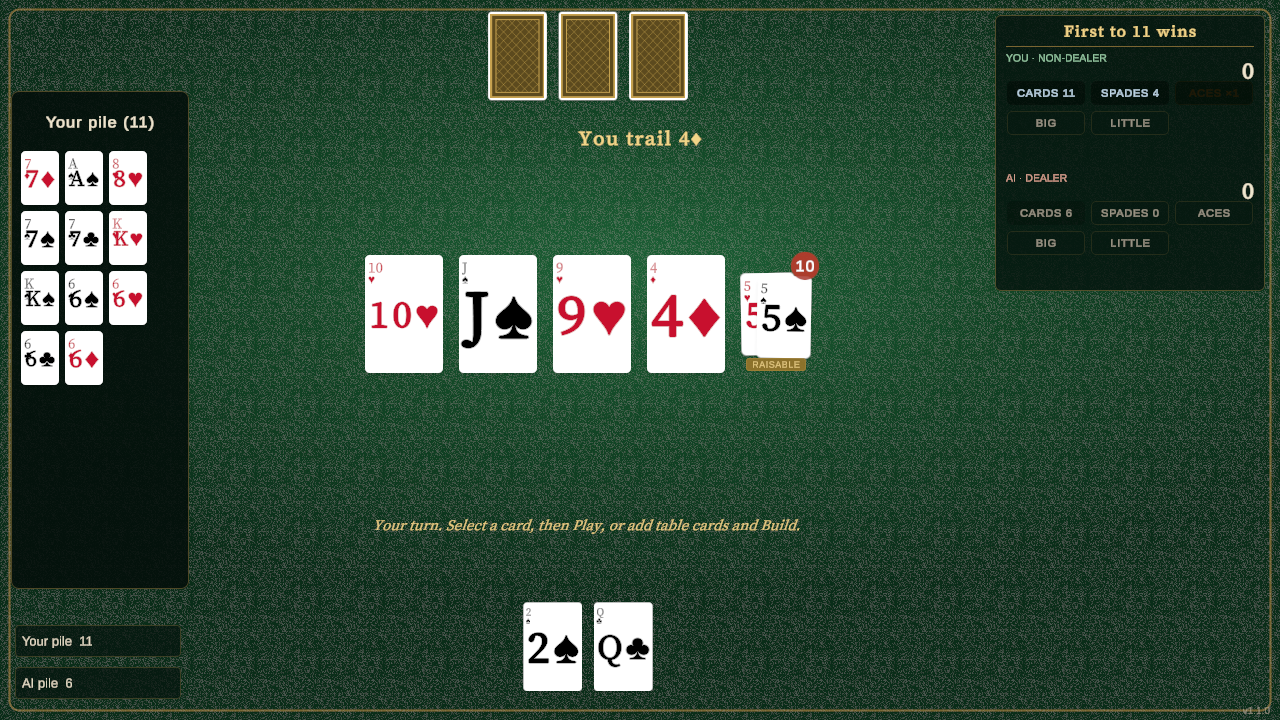
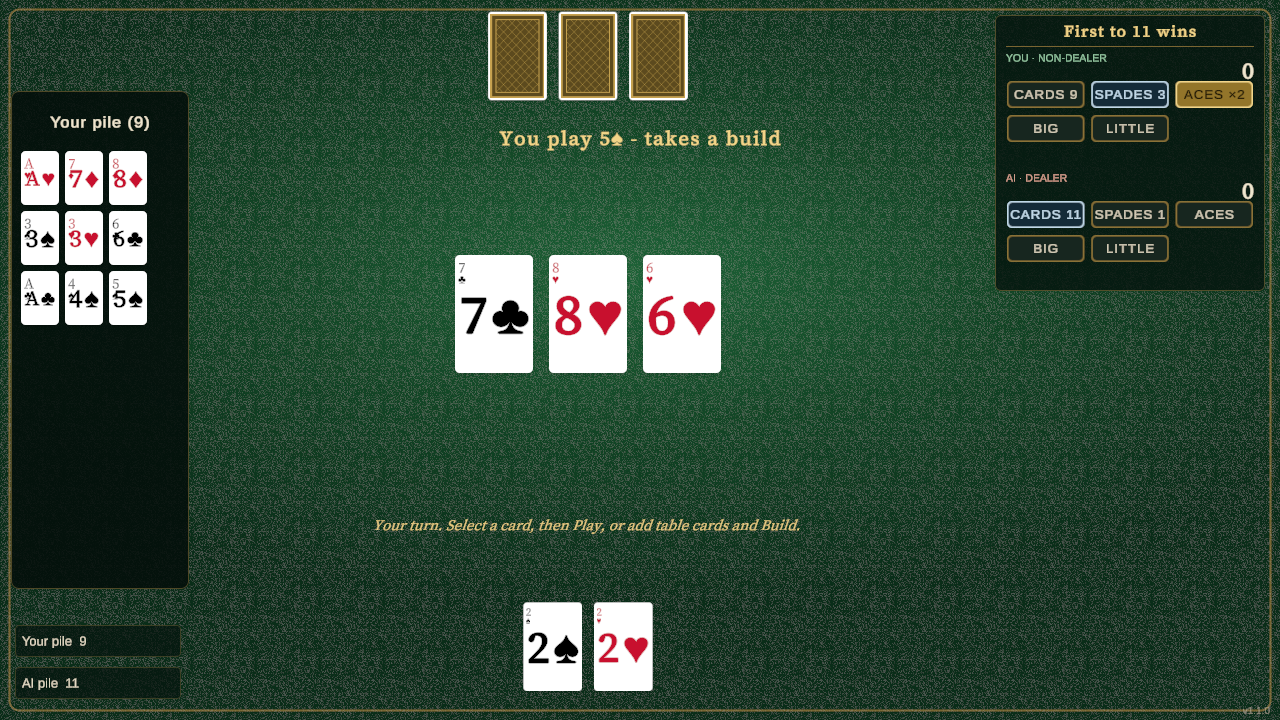
Make the badges actually visible, and actually different from each other
Rick could not see them, and he was right twice over.

Idle was a ghost, not a slot. Fill at 0.55 alpha and a label at 0.38 on a panel
that is already near-black meant an unwon badge was invisible rather than merely
quiet. That matters most at deck end, when every badge resets to idle and the
whole panel therefore looked empty at exactly the moment someone wants to read
it. An unwon prize still has to read as a prize on offer.

Worse, the three states were not distinguishable at all, and the cause was a
real bug. Surface() bakes fill and stroke into the sprite texture, so re-tinting
that sprite per state multiplies against the baked fill: won came out dark brown
with an unreadable label, and leading was indistinguishable from idle. Every
state collapsed toward black. CardUI already had this right, using a white
sprite so Image.color carries the state; the badge did not. It now uses two
white sprites, a border and an inset fill, both tinted per state.

The result reads correctly at a glance: with 11 cards against 9 the AI's CARDS
badge goes blue, with 3 spades against 1 yours does, and two aces strikes yours
in brass while the AI's stays idle.

diff --git a/Assets/Scripts/UIManager.cs b/Assets/Scripts/UIManager.cs
@@ -1442,7 +1442,7 @@ public class UIManager : MonoBehaviour
     {
         public enum State { Idle, Leading, Won }
 
-        private readonly Image surface;
+        private readonly Image surface, border;
         private readonly TextMeshProUGUI label;
         private readonly RectTransform rect;
         private State state = State.Idle;
@@ -1462,8 +1462,29 @@ public class UIManager : MonoBehaviour
             rect.anchoredPosition = pos;
             rect.sizeDelta = size;
 
-            surface = go.AddComponent<Image>();
-            Surface(surface, 5, CasinoTheme.BadgeIdle, CasinoTheme.BadgeIdleBorder);   // static on UIManager
+            // Two white sprites, tinted, rather than one sprite with the colours
+            // baked in. Surface() bakes fill and stroke into the texture, so
+            // re-tinting it per state multiplies against that fill and every
+            // state collapses toward black: a won badge came out dark brown with
+            // an unreadable label, and leading was indistinguishable from idle.
+            // CardUI already had this right; the badge did not.
+            border = go.AddComponent<Image>();
+            border.sprite = CasinoArt.RoundedFill(5);
+            border.type = Image.Type.Sliced;
+            border.color = CasinoTheme.BadgeIdleBorder;
+            border.raycastTarget = false;
+
+            var fillGo = new GameObject("Fill");
+            fillGo.transform.SetParent(go.transform, false);
+            var fr = fillGo.AddComponent<RectTransform>();
+            fr.anchorMin = Vector2.zero;
+            fr.anchorMax = Vector2.one;
+            fr.offsetMin = new Vector2(1.5f, 1.5f);
+            fr.offsetMax = new Vector2(-1.5f, -1.5f);
+            surface = fillGo.AddComponent<Image>();
+            surface.sprite = CasinoArt.RoundedFill(4);
+            surface.type = Image.Type.Sliced;
+            surface.color = CasinoTheme.BadgeIdle;
             surface.raycastTarget = false;
 
             label = owner.CreateText("Label", go.transform);
@@ -1472,7 +1493,7 @@ public class UIManager : MonoBehaviour
             lr.anchorMax = Vector2.one;
             lr.offsetMin = lr.offsetMax = Vector2.zero;
             label.alignment = TextAlignmentOptions.Center;
-            label.fontSize = size.y * 0.42f;
+            label.fontSize = size.y * 0.46f;
             label.fontStyle = FontStyles.Bold;
             label.color = CasinoTheme.BadgeIdleLabel;
             label.raycastTarget = false;
@@ -1493,14 +1514,17 @@ public class UIManager : MonoBehaviour
                 {
                     case State.Won:
                         surface.color = CasinoTheme.BadgeWon;
+                        border.color = CasinoTheme.BadgeWonBorder;
                         label.color = CasinoTheme.BadgeWonLabel;
                         break;
                     case State.Leading:
                         surface.color = CasinoTheme.BadgeLeading;
+                        border.color = CasinoTheme.BadgeLeadingBorder;
                         label.color = CasinoTheme.BadgeLeadingLabel;
                         break;
                     default:
                         surface.color = CasinoTheme.BadgeIdle;
+                        border.color = CasinoTheme.BadgeIdleBorder;
                         label.color = CasinoTheme.BadgeIdleLabel;
                         break;
                 }
@@ -1590,9 +1614,9 @@ public class UIManager : MonoBehaviour
         // landscape rail is narrow and takes two rows of three.
         int perRow = CasinoLayout.Active.Name == "Portrait" ? BadgeNames.Length : 3;
         int rows = Mathf.CeilToInt(BadgeNames.Length / (float)perRow);
-        float gap = 4f;
+        float gap = 5f;
         float bw = (usable - gap * (perRow - 1)) / perRow;
-        float bh = 26f;
+        float bh = 29f;
 
         seatLabel = CreateText($"{name}Seat", panel);
         var sr = seatLabel.rectTransform;

diff --git a/Assets/Scripts/CasinoTheme.cs b/Assets/Scripts/CasinoTheme.cs
@@ -158,16 +158,21 @@ public static class CasinoTheme
     // badge is a faint outline on the panel, an earned one is struck in brass.
     // Contested badges (most cards, most spades) use a third, cooler state while
     // you are ahead but the deck is not finished, because leading is not winning.
-    public static Color BadgeIdle => Palette.PanelInk.WithAlpha(0.55f);
-    public static Color BadgeIdleBorder => Palette.Brass.WithAlpha(0.22f);
-    public static Color BadgeIdleLabel => Palette.Parchment.WithAlpha(0.38f);
+    // Idle is a slot, not a ghost. The first version used 0.55 fill and a 0.38
+    // label on a panel that is already near-black, which made an unwon badge
+    // invisible rather than merely quiet, and at deck end every badge resets to
+    // idle, so the whole panel looked empty at exactly the moment someone wants
+    // to read it. An unwon prize still has to be legible as a prize on offer.
+    public static Color BadgeIdle => new(0.09f, 0.15f, 0.12f);
+    public static Color BadgeIdleBorder => Palette.Brass.WithAlpha(0.45f);
+    public static Color BadgeIdleLabel => Palette.Parchment.WithAlpha(0.72f);
 
     public static Color BadgeWon => Palette.BrassDeep;
     public static Color BadgeWonBorder => Palette.Gold;
     public static Color BadgeWonLabel => new(0.133f, 0.102f, 0.024f);
 
-    public static Color BadgeLeading => Palette.PanelInk.WithAlpha(0.92f);
-    public static Color BadgeLeadingBorder => Palette.Counsel.WithAlpha(0.85f);
+    public static Color BadgeLeading => new(0.08f, 0.17f, 0.22f);
+    public static Color BadgeLeadingBorder => Palette.Counsel;
     public static Color BadgeLeadingLabel => Palette.Counsel;
 
     public static Color BuildTagLocked => Palette.PanelDeep.WithAlpha(0.9f);
